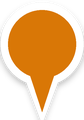
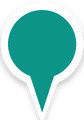
feat: 「行きたい」ピンをティールにする (#159)
未訪問(#FB923C)と行きたい(#D97706)の知覚距離が ΔE2000 = 9.0 しかなく、
全ペア中の最小だった（次に近いペアは 24.8）。ピンの実寸は 21x31pt あるので
大きさの問題ではなく、色相ではなく明度差だけで区別する設計が持たなかった。

行きたいだけを寒色(#0D9488)に移す。候補を総当たりで比べた結果、通常時・
D型・P型のすべてで ΔE 20 を超えるのはティールだけだった。神社仏閣は公園や
森林のポリゴンの上に乗ることが多いが、緑の上でも 30.5 あり沈まない。

付随して、D型色覚では未訪問・行きたい・訪問済(神社)の3つが同じオリーブに
潰れていた（ΔE 8.5 / 9.3）。赤・橙・琥珀がいずれもD型の区別できない帯に
乗っていたため。行きたいを抜くことで最小 22.7 まで広がる。

colors.pin.wishlisted はしおりアイコン3箇所でも使っているので、そちらも
同時にティールになる。意味の一貫性としてこれが正しい。

テストを入れ替えた。既存の2つは「値が違うこと」と「未訪問の方が明るいこと」
しか見ておらず、後者は破綻した設計そのものを固定していた。知覚距離
（Lab のユークリッド距離）で見るものと、D型/P型でも分離していることを見る
ものに差し替える。旧色に戻すと両方落ちて、近すぎるペアを数値付きで列挙する。

Claude-Session: https://claude.ai/code/session_0195q1wiBWFWpsMftztQKwVZ

diff --git a/src/theme/__tests__/theme.test.ts b/src/theme/__tests__/theme.test.ts
@@ -33,22 +33,84 @@ describe('Theme', () => {
       expect(colors.pin.unvisited).toBe(colors.primary[400]);
     });
 
-    // 未訪問(オレンジ)と「行きたい」(アンバー)は色相が近いので、明度で離す。
-    // 訪問済みの赤・紫は色相で離れているため明度の順は問わない
-    it('should keep the unvisited pin clearly lighter than the wishlisted pin', () => {
-      const lightness = (hex: string) => {
-        const channels = [1, 3, 5].map(i => parseInt(hex.slice(i, i + 2), 16) / 255);
-        return (Math.max(...channels) + Math.min(...channels)) / 2;
-      };
-
-      expect(lightness(colors.pin.unvisited) - lightness(colors.pin.wishlisted)).toBeGreaterThan(
-        0.1
-      );
-    });
-
     it('should keep every pin state a distinct color', () => {
       const { currentLocation: _currentLocation, ...spotPins } = colors.pin;
       expect(new Set(Object.values(spotPins)).size).toBe(Object.keys(spotPins).length);
+    });
+
+    // 「値が違う」だけでは足りない。以前は未訪問(#FB923C)と行きたい(#D97706)が
+    // 別の値でありながら地図上の実寸(21pt)で見分けられず、明度差だけに頼った
+    // 設計が破綻していた。知覚上の距離で見る。
+    //
+    // 距離は CIE76（Lab のユークリッド距離）。ΔE2000 の方が正確だが、ここは
+    // 閾値判定で、落としたいペア（旧・未訪問×行きたい = 12.1）と通したい最小の
+    // ペア（未訪問×訪問済神社 = 42.5）が 3.5 倍離れているので精度は要らない
+    const labOf = (hex: string) => {
+      const [r, g, b] = [1, 3, 5]
+        .map(i => parseInt(hex.slice(i, i + 2), 16) / 255)
+        .map(c => (c <= 0.04045 ? c / 12.92 : ((c + 0.055) / 1.055) ** 2.4));
+      const f = (t: number) => (t > 0.008856 ? Math.cbrt(t) : 7.787 * t + 16 / 116);
+      const fx = f((r * 0.4124564 + g * 0.3575761 + b * 0.1804375) / 0.95047);
+      const fy = f(r * 0.2126729 + g * 0.7151522 + b * 0.072175);
+      const fz = f((r * 0.0193339 + g * 0.119192 + b * 0.9503041) / 1.08883);
+      return [116 * fy - 16, 500 * (fx - fy), 200 * (fy - fz)];
+    };
+    const distance = (a: string, b: string) =>
+      Math.hypot(...labOf(a).map((v, i) => v - labOf(b)[i]));
+
+    /** 色覚多様性のシミュレーション（Viénot らの LMS 法） */
+    const simulate = (hex: string, kind: 'deutan' | 'protan') => {
+      const [r, g, b] = [1, 3, 5]
+        .map(i => parseInt(hex.slice(i, i + 2), 16) / 255)
+        .map(c => (c <= 0.04045 ? c / 12.92 : ((c + 0.055) / 1.055) ** 2.4));
+      let L = 17.8824 * r + 43.5161 * g + 4.11935 * b;
+      let M = 3.45565 * r + 27.1554 * g + 3.86714 * b;
+      const S = 0.0299566 * r + 0.184309 * g + 1.46709 * b;
+      if (kind === 'protan') L = 2.02344 * M - 2.52581 * S;
+      else M = 0.494207 * L + 1.24827 * S;
+      const out = [
+        0.080944 * L - 0.130504 * M + 0.116721 * S,
+        -0.0102485 * L + 0.0540194 * M - 0.113615 * S,
+        -0.000365294 * L - 0.00412163 * M + 0.693513 * S,
+      ].map(c => {
+        const k = Math.min(1, Math.max(0, c));
+        const e = k <= 0.0031308 ? 12.92 * k : 1.055 * k ** (1 / 2.4) - 0.055;
+        return Math.round(e * 255)
+          .toString(16)
+          .padStart(2, '0');
+      });
+      return `#${out.join('')}`;
+    };
+
+    const spotPinPairs = () => {
+      const { currentLocation: _currentLocation, ...spotPins } = colors.pin;
+      const entries = Object.entries(spotPins);
+      return entries.flatMap(([an, a], i) =>
+        entries.slice(i + 1).map(([bn, b]) => ({ label: `${an} × ${bn}`, a, b }))
+      );
+    };
+
+    it('should keep every pair of spot pins perceptually far apart', () => {
+      const tooClose = spotPinPairs()
+        .map(p => ({ ...p, d: distance(p.a, p.b) }))
+        .filter(p => p.d < 30)
+        .map(p => `${p.label}: ${p.d.toFixed(1)}`);
+
+      expect(tooClose).toEqual([]);
+    });
+
+    // 赤・橙・琥珀はD型/P型で同じ帯に落ちる。以前は未訪問・行きたい・訪問済(神社)の
+    // 3つが同じオリーブに潰れていた（10.7）。今の最小は未訪問×訪問済(神社)の 22.7 で、
+    // ここをさらに広げるには訪問済みか未訪問の色を動かす必要がある（別件）
+    it('should keep spot pins separable for common color vision deficiencies', () => {
+      const tooClose = (['deutan', 'protan'] as const).flatMap(kind =>
+        spotPinPairs()
+          .map(p => ({ ...p, kind, d: distance(simulate(p.a, kind), simulate(p.b, kind)) }))
+          .filter(p => p.d < 18)
+          .map(p => `${p.kind} ${p.label}: ${p.d.toFixed(1)}`)
+      );
+
+      expect(tooClose).toEqual([]);
     });
 
     // 未訪問の色替えで訪問済みの色分けを巻き添えにしていないこと

diff --git a/src/theme/colors.ts b/src/theme/colors.ts
@@ -48,9 +48,12 @@ export const colors = {
   pin: {
     shrineVisited: '#DC2626',
     templeVisited: '#9333EA',
-    wishlisted: '#D97706',
-    // 未訪問はブランド色1色。神社/寺の区別はつけない。
-    // 「行きたい」とは色相が近いので、未訪問を明らかに明るくして見分けさせる
+    // 「行きたい」だけ寒色。以前はアンバー(#D97706)で未訪問のオレンジと
+    // 色相が近く、明度差だけで見分けさせていたが、地図上の実寸(21pt)では
+    // 区別できなかった（ΔE2000 = 9.0 で全ペア中の最小）。
+    // さらにD型色覚では未訪問・行きたい・訪問済(神社)が同じオリーブに潰れていた
+    wishlisted: '#0D9488',
+    // 未訪問はブランド色1色。神社/寺の区別はつけない
     unvisited: '#FB923C',
     currentLocation: '#3B82F6',
   },
